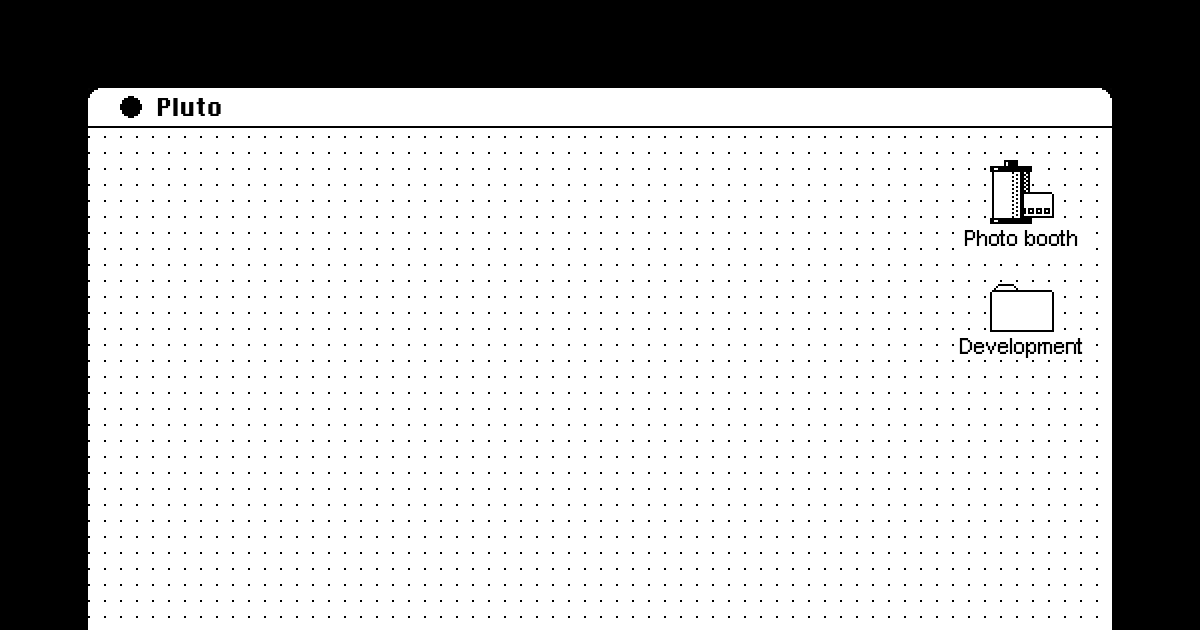
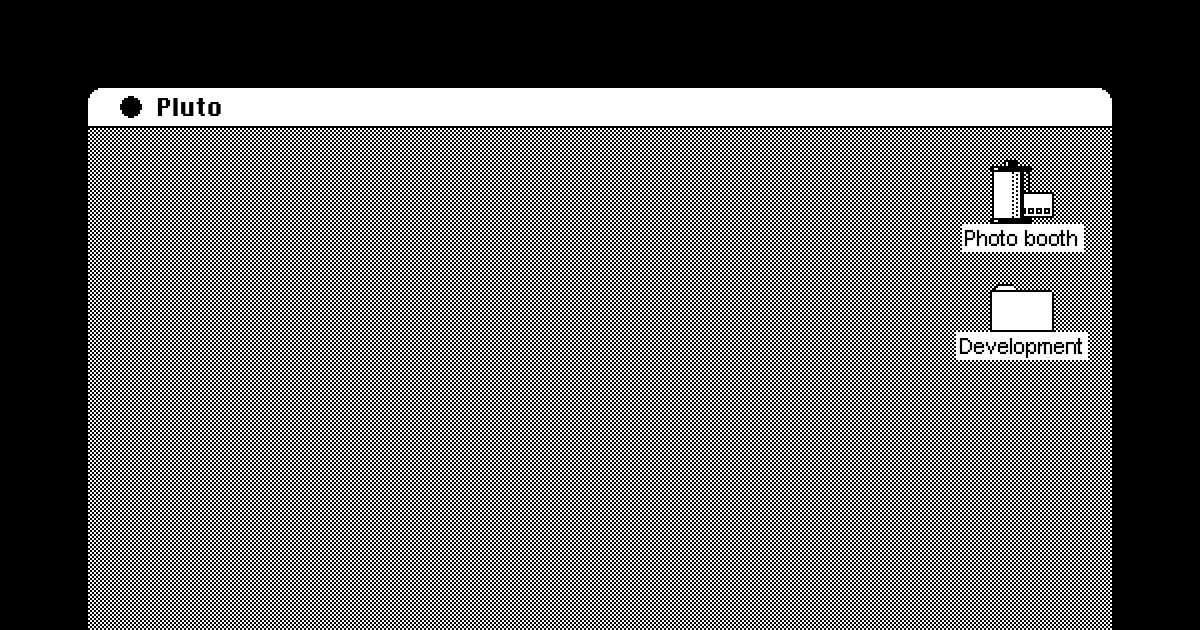
add splash screen with happy mac and update bg

diff --git a/pages/index.js b/pages/index.js
@@ -1,5 +1,5 @@
 import Head from "next/head";
-import { useState } from "react";
+import { useState, useEffect } from "react";
 import Window from "../components/window";
 import File from "../components/file";
 import { getFileContent } from "../lib/api";
@@ -33,6 +33,7 @@ const getDefaultPosition = (openWindows) => {
 };
 
 export default ({ initialWindows, icons }) => {
+  const [showingSplashscreen, setSplashScreen] = useState(true);
   const [openWindows, setOpenWindows] = useState(initialWindows);
   const [zoomed, setZoomed] = useState(false);
   const [dropdownOpen, setDropdownOpen] = useState(false);
@@ -66,6 +67,10 @@ export default ({ initialWindows, icons }) => {
       ]);
   };
 
+  useEffect(() => {
+    setTimeout(() => setSplashScreen(false), 1000);
+  }, []);
+
   const title = `pluto ${version}`;
   return (
     <>
@@ -90,7 +95,7 @@ export default ({ initialWindows, icons }) => {
       <div className="flex justify-center items-center min-h-screen bg-black">
         <div
           style={{ width: 512, height: 342, ...(zoomed && { zoom: 2 }) }}
-          className="flex corner-bottom flex-col overflow-hidden"
+          className="flex corner flex-col overflow-hidden relative"
         >
           <div className="corner-top bg-white px-2 h-5 border-b border-black flex items-stretch justify-between">
             <div className="flex items-stretch relative">
@@ -114,7 +119,7 @@ export default ({ initialWindows, icons }) => {
                   <button
                     onClick={() => setDropdownOpen(false)}
                     tabIndex="-1"
-                    className="z-10 fixed inset-0 h-full w-full cursor-default"
+                    className="z-10 fixed inset-0 h-full w-full cursor-default focus:outline-none"
                   ></button>
                   <div className="absolute w-40 z-20 py-1 flex flex-col items-stretch left-0 top-0 mt-5 font-chicago bg-white border-t-0 border-b-2 border-r-2 border border-black">
                     {/* <div className="px-4 py-1 hover:bg-black hover:text-white">
@@ -145,7 +150,6 @@ export default ({ initialWindows, icons }) => {
               )}
             </div>
           </div>
-
           {/* Windows */}
           <div className="flex-grow ">
             {openWindows.map((window, i) => {
@@ -213,6 +217,11 @@ export default ({ initialWindows, icons }) => {
               </div>
             </div>
           </div>
+          {showingSplashscreen && (
+            <div className="absolute z-100  corner  top-0 bottom-0 right-0 left-0 flex items-center justify-center">
+              <img src="/icons/happy.png" />
+            </div>
+          )}
         </div>
       </div>
     </>

diff --git a/styles/index.css b/styles/index.css
@@ -23,11 +23,7 @@
 }
 
 body {
-  image-rendering: pixelated;
-  background-image: url("/corner-lb.png"), url("/corner-rb.png"), url("/bg.png");
-  background-position: left bottom, right bottom, left top;
-  background-repeat: no-repeat, no-repeat, repeat;
-  min-height: 100vh;
+  @apply bg-black min-h-screen;
 }
 .corner-top {
   background-image: url("/corner-lt.png"), url("/corner-rt.png");
@@ -35,10 +31,11 @@ body {
   background-repeat: no-repeat; /* this applies to both images */
 }
 
-.corner-bottom {
-  background-image: url("/corner-lb.png"), url("/corner-rb.png"), url("/bg.png");
-  background-position: left bottom, right bottom, left top;
-  background-repeat: no-repeat, no-repeat, repeat;
+.corner {
+  background-image: url("/corner-lt.png"), url("/corner-rt.png"),
+    url("/corner-lb.png"), url("/corner-rb.png"), url("/bg.png");
+  background-position: left top, right top, left bottom, right bottom, left top;
+  background-repeat: no-repeat, no-repeat, no-repeat, no-repeat, repeat;
 }
 
 .bg-checkers {
